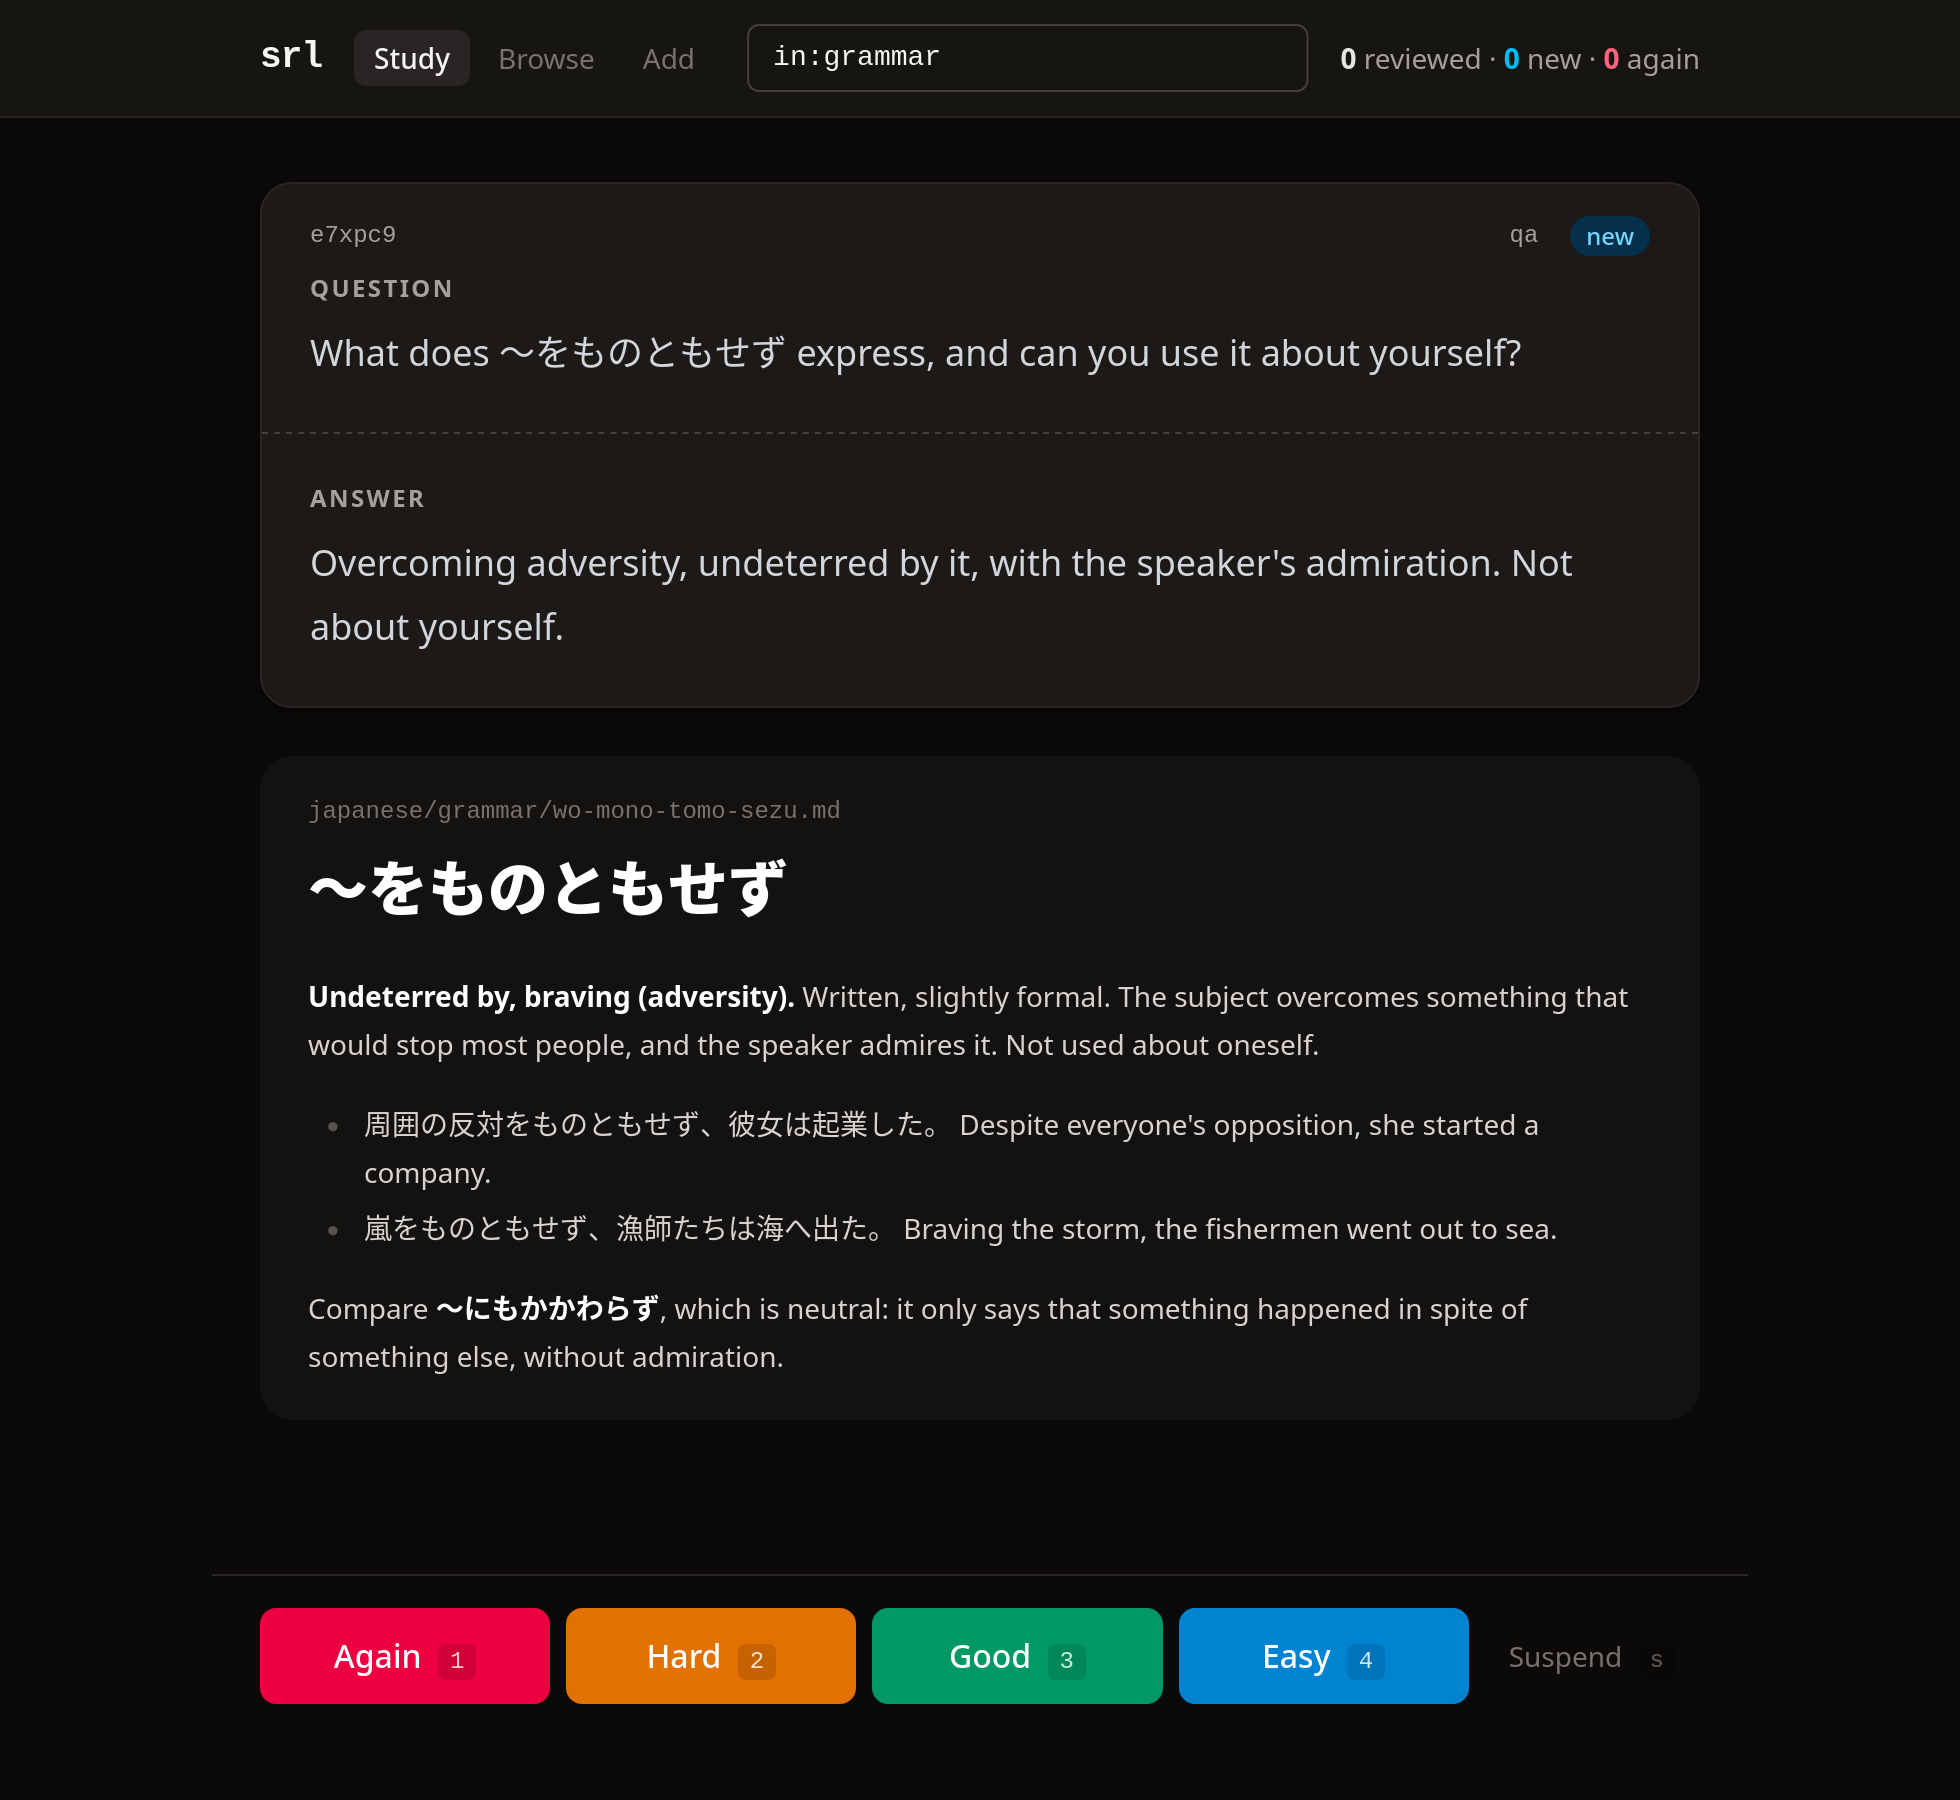
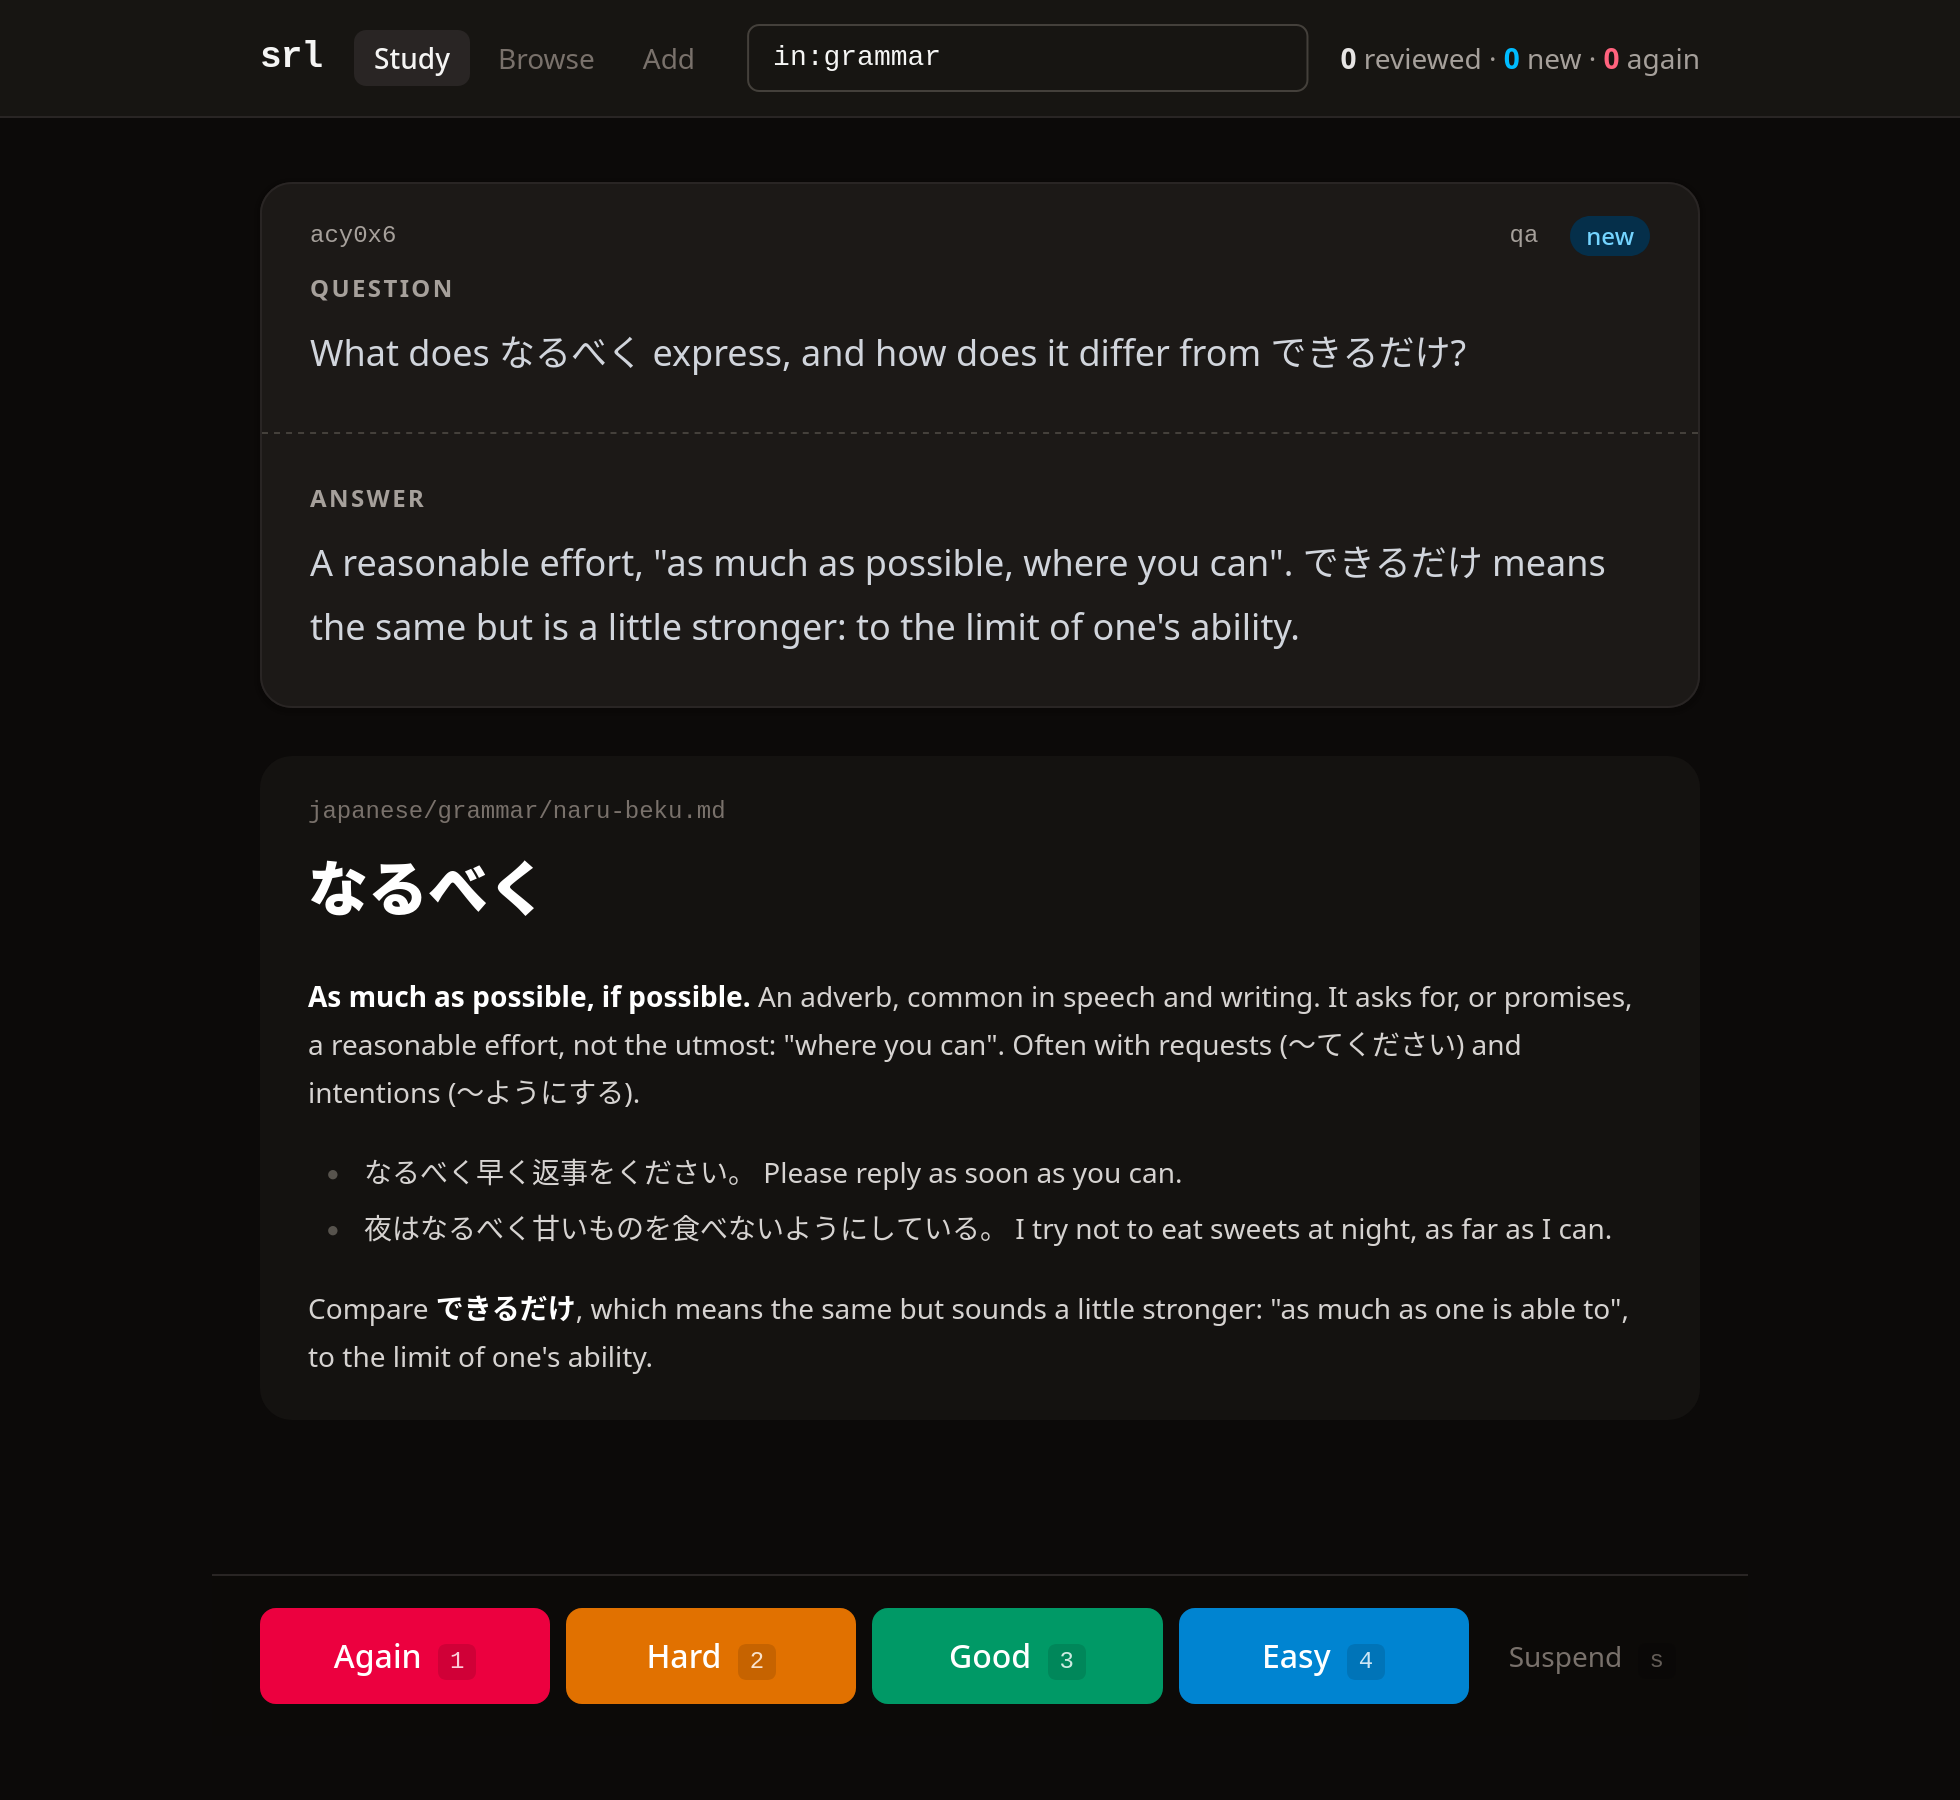
Screenshots: a なるべく note replaces をものともせず in the demo store; README shows web-2 and tui-6

diff --git a/examples/screenshots/store/japanese/grammar/naru-beku.md b/examples/screenshots/store/japanese/grammar/naru-beku.md
@@ -1,0 +1,26 @@
+# なるべく
+
+**As much as possible, if possible.** An adverb, common in speech and
+writing. It asks for, or promises, a reasonable effort, not the utmost:
+"where you can". Often with requests (〜てください) and intentions (〜ようにする).
+
+- なるべく早く返事をください。
+  Please reply as soon as you can.
+- 夜はなるべく甘いものを食べないようにしている。
+  I try not to eat sweets at night, as far as I can.
+
+Compare **できるだけ**, which means the same but sounds a little stronger:
+"as much as one is able to", to the limit of one's ability.
+
+<!-- srl id:acy0x6 -->
+Q: What does なるべく express, and how does it differ from できるだけ?
+A: A reasonable effort, "as much as possible, where you can". できるだけ
+  means the same but is a little stronger: to the limit of one's ability.
+
+<!-- srl id:yekox3 -->
+Q: {{c1::なるべく::adverb}}早く返事をください。
+A: Please reply as soon as you can.
+
+<!-- srl id:moai8k -->
+Q: 夜はなるべく甘いものを{{c1::食べないようにしている}}。
+A: I try not to eat sweets at night, as far as I can.

diff --git a/README.md b/README.md
@@ -102,11 +102,11 @@ terminal frontend in Python.
 
 `srl-web`, with the answer of a card revealed and the ratings below it:
 
-![srl-web showing the answer of a card about Rust ownership, with its note as context and the rating buttons](examples/screenshots/images/web-3-rust-answer-dark.png)
+![srl-web showing the answer of a card about the Japanese adverb なるべく, with its note as context and the rating buttons](examples/screenshots/images/web-2-study-answer-dark.png)
 
-`srl-tui`, on the same card:
+`srl-tui`, on a card about Ohm's law:
 
-![srl-tui showing the answer of a card about Rust ownership, with its note as context and the rating keys](examples/screenshots/images/tui-2-rust-answer.png)
+![srl-tui showing the answer of a card about Ohm's law, with its note as context and the rating keys](examples/screenshots/images/tui-6-electrical.png)
 
 ### LLM agents
 
